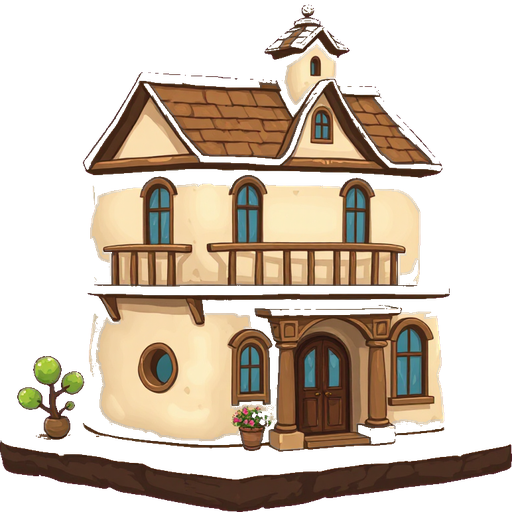
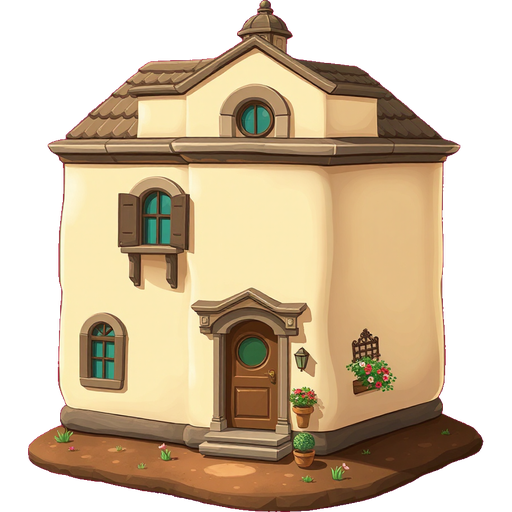
fix: render the homestead as one unbroken mass - solid villa sprite, drawn after all plants

diff --git a/app/src/main/java/com/expensegarden/app/render/GardenCanvas.kt b/app/src/main/java/com/expensegarden/app/render/GardenCanvas.kt
@@ -612,11 +612,16 @@ fun GardenCanvas(
             // plant no longer lands beside the house — it lands on its wall or roof.
             // Ground-position Y is the correct depth for a billboard, and it also keeps the
             // ordering honest mid-expansion while anchors are still lerping.
-            val houseBaseY = hAnchor.y
+            // The house is deliberately NOT interleaved into this loop. Per-plant depth is
+            // correct for plants, but the house is a single tall billboard: any plant sorted
+            // in front of it paints across the sprite, and because plants sit at all heights
+            // the result was horizontal seams — foliage and faces banding the house under the
+            // eave and under the balcony, so it read as three stacked slabs with garden
+            // showing through the joins. A landmark building must render whole, so it is drawn
+            // after every plant (see the drawHomestead() call below the loop). The cost is
+            // that plants standing directly in front of it lose their tops behind the wall —
+            // Rajdweep's explicit call: an unbroken house beats a few occluded plants.
             visPlants.map { it to anchorOf(it) }.sortedBy { it.second.y }.forEach { (plant, anchor) ->
-                if (houseBmp != null && houseRowsVisible && !houseDrawn && anchor.y > houseBaseY) {
-                    drawHomestead(); houseDrawn = true
-                }
                 val ax = anchor.x; val ay = anchor.y
                 val popScale = pop[plant.txnUuid]?.value ?: 1f
                 if (popScale < 1f) {                                     // soil poof while springing in
@@ -670,6 +675,7 @@ fun GardenCanvas(
                 }
             }
             // house had no plants in front of it (or all front rows culled) — draw it now
+            // Sole draw path for the homestead: after every plant, so the house is never sliced.
             if (houseBmp != null && houseRowsVisible && !houseDrawn) drawHomestead()
 
             // ---- month signposts: little wooden signs where each month's growth began ----

diff --git a/tools/art/gen.py b/tools/art/gen.py
@@ -156,8 +156,36 @@ def gen(name, prompt_core):
         check=True,
     )
     out = os.path.join(OUT_DIR, name + ".png")
-    key_out(raw, screen).save(out)
+    img = key_out(raw, screen)
+    img.save(out)
     print("saved", out)
+    if name.startswith("house"):
+        bad = facade_gaps(img)
+        if bad:
+            print(f"  WARNING {name}: {bad} rows are >30% see-through across the facade.")
+            print("  A building with holes in it shows the garden through its walls and reads")
+            print("  as stacked slabs. Re-roll with SEED_OFFSET rather than shipping it.")
+
+
+def facade_gaps(img, thresh=0.30):
+    """Count rows where the building is substantially see-through side to side.
+
+    Houses are the one archetype that must be a solid mass: they sit at the centre of a
+    packed island, so any hole in the silhouette frames a creature's face and the building
+    stops reading as one object. Creatures are exempt — gaps between leaves are the point.
+    """
+    w, h = img.size
+    px = img.load()
+    bad = 0
+    for y in range(h):
+        xs = [x for x in range(w) if px[x, y][3] >= 40]
+        if len(xs) < 2:
+            continue
+        lo, hi = xs[0], xs[-1]
+        clear = sum(1 for x in range(lo, hi + 1) if px[x, y][3] < 40)
+        if clear > thresh * (hi - lo + 1):
+            bad += 1
+    return bad
 
 
 if __name__ == "__main__":

diff --git a/tools/art/briefs.py b/tools/art/briefs.py
@@ -133,9 +133,15 @@ PROMPTS = {
     "house_1": _HOMESTEAD + " A stone cottage with a chimney.",
     "house_2": _HOMESTEAD + " A GRAND TWO-STORY house: brick walls, tall shuttered "
     "windows on both floors, a steep gabled roof, a chimney.",
+    # The villa MUST be one solid mass. The first pass drew overhanging eaves and an
+    # overhanging balcony, leaving see-through bands across 68 rows of the facade — on a
+    # packed island the garden showed through them and the house read as stacked slabs.
     "house_3": _HOMESTEAD + " A STATELY VILLA MANSION: wide symmetrical facade, a "
-    "columned portico over the entrance, a first-floor balcony "
-    "with a railing, a small cupola on the roof, flower trellis.",
+    "columned portico built flush against the wall, a first-floor balcony whose "
+    "underside is a SOLID wall, a small cupola on the roof, flower trellis. The "
+    "building is ONE SOLID CONTINUOUS MASS: solid unbroken walls from the roof down "
+    "to the ground, no gaps between floors, no open space beneath the balcony or the "
+    "eaves, nothing see-through anywhere in the building.",
     # ---- 1C.7 necessity split ----
     "vegetable_row_0": (
         "A low neat row of three plump round cabbages with crinkled blue-green outer "
